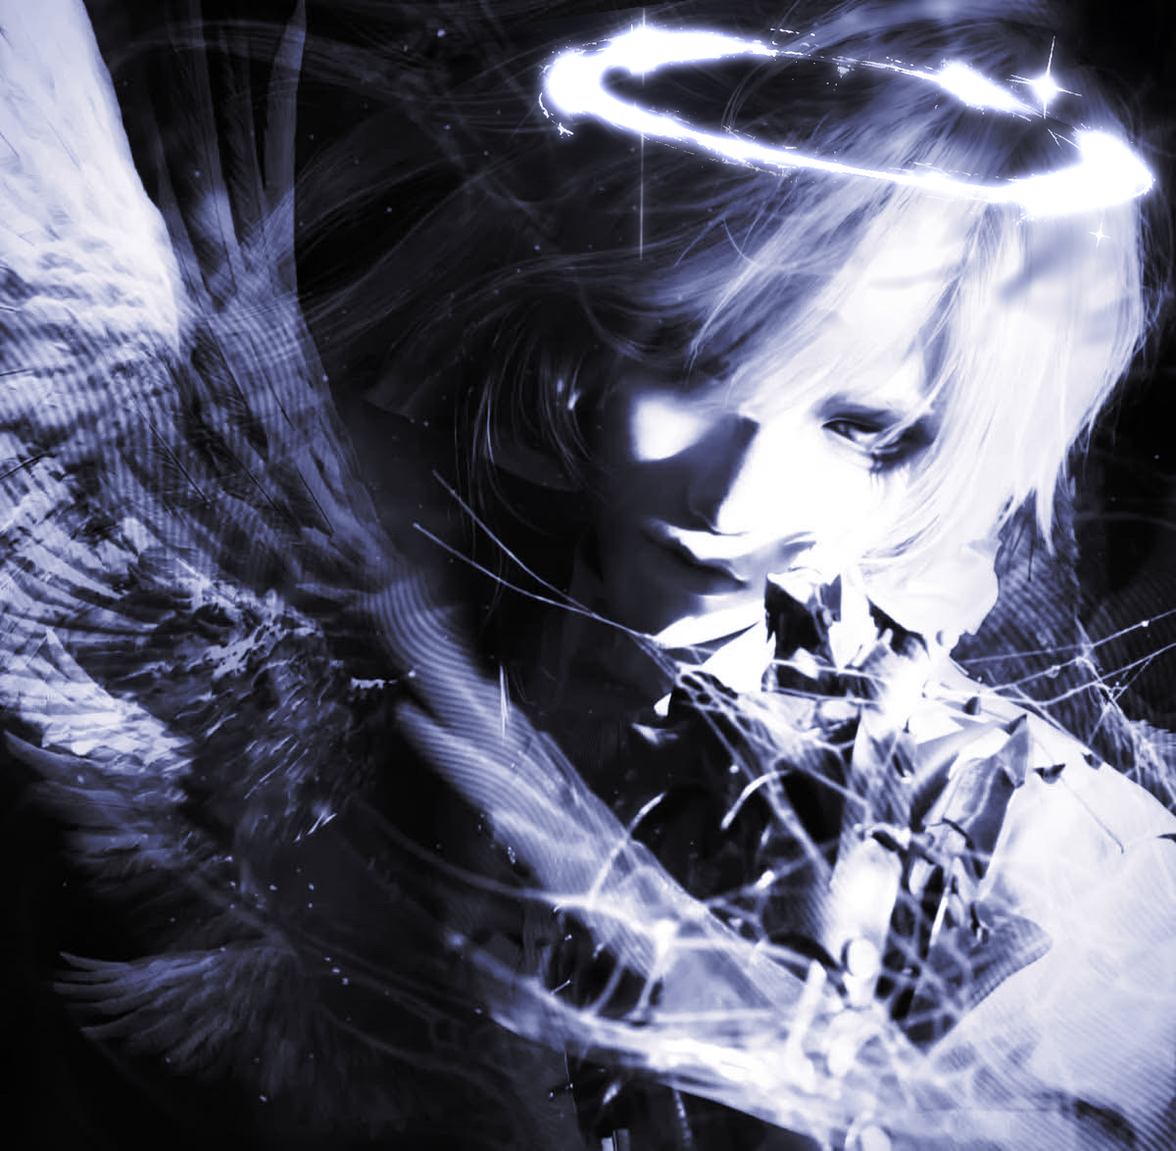
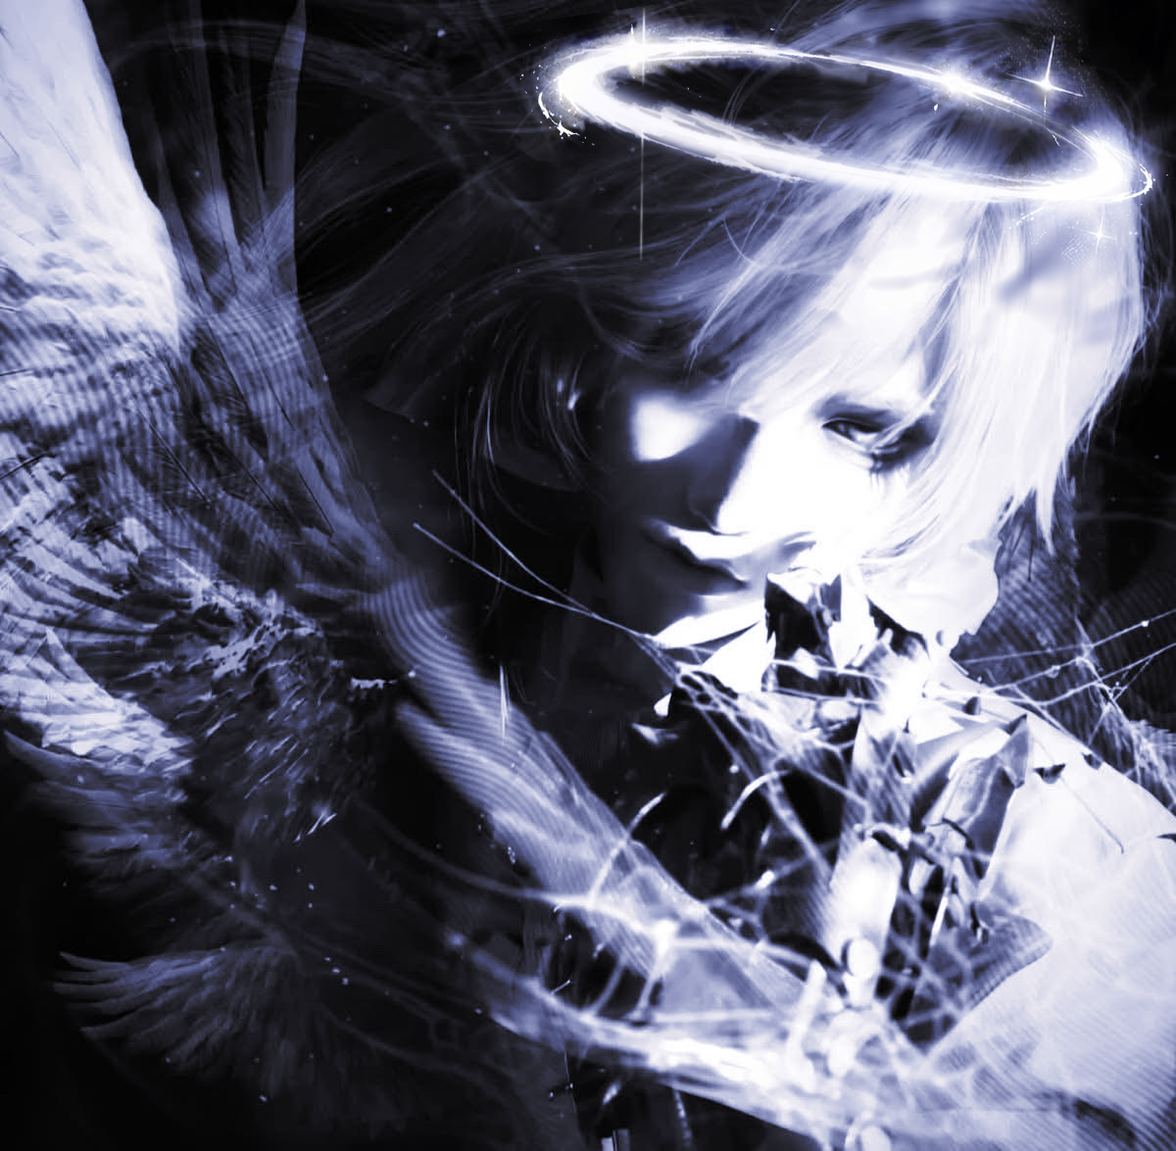
Lift the halo exactly for the wings picture
The user said the halo on the wings picture did not match theirs. The
earlier extraction thresholded and modelled the light, which lost the
thin strands, the sparkle dust and the outer arc, and let lace and lily
pieces through.

- Over dark background the edit's light is now kept exactly as measured
  (median error against the edit: 0).
- Over bright lace and hair, where light and background cannot be told
  apart per pixel, the ring is read in ring coordinates (arc length x
  distance): a directional opening/closing keeps the long lines that run
  along the ring and drops short blobs of background. Off the band the
  light may not exceed the glow measured where it is exact and must fade
  with distance, which stops lily and lace edges leaking in.
- Kept from measurements: the back arc over the lace top (carried along
  the ring), the thin outer arc round the right end (38-46 px out), the
  folds inside the two tight ends, both stars with their own glow, the
  flare, and sparkle dust; light colour follows a per-level colour map
  measured on the halo, so faint glow is lavender and strong light white.

Claude-Session: https://claude.ai/code/session_01R1ufdM6Gy46JF29dPHPPpt

Changed region(s): [[0.4317, 0.0, 0.9867, 0.2145], [0.5242, 0.1838, 0.555, 0.2145]]

diff --git a/halo/wings_halo.py b/halo/wings_halo.py
@@ -5,24 +5,30 @@
    brightness level it takes the edit's median colour, and the picture keeps
    its own brightness exactly: only the hue changes (navy blacks, periwinkle
    mids, lavender-white highlights).
-2. Halo: lifted off edit.jpg as two layers, light (screened on) and the
-   shadow the edit put behind the ring (multiplied on, before the colouring).
-   - Under the ring the edit's background is source.jpg aligned to it, scaled
-     by that shadow. The shadow is measured as edit / original away from the
-     light, separately inside and outside the ring.
-   - Ring and strands: the light above that background, kept where it is light
-     the original does not have, or the band's white-hot core.
-   - Stars and glitter: the detail mask of enlarge_halo.halo_layers, keeping
-     only parts that peak like real sparkles (lace and lily bits peak lower).
-   - The tall flare at the right end: a horizontal top-hat along its line.
-   - Glow: sum of blurs of all of the above, fitted where the edit's
-     background was dark (there it is measured exactly).
+2. Halo: lifted off edit.jpg as light (screened on) and the shadow the edit put
+   behind the ring (multiplied on, before the colouring).
+   - Background under the ring: source.jpg aligned to the edit, times that
+     shadow (edit / original away from the light, inside and outside the ring).
+   - Light: what screens that background into the edit, per pixel. It is exact
+     where the background was dark; there it is kept as it is (the median error
+     against the edit is 0).
+   - Over the bright lace and hair it is not exact. There the ring is read in
+     ring coordinates (arc length along it, distance across it), where the
+     halo's light runs in long lines and leaking background is short blobs: a
+     directional opening and closing keeps the lines. Off the band, the light
+     may not exceed the glow measured where it is exact and must fade with
+     distance, which stops lily and lace edges coming through.
+   - Kept by hand from measurements: the back arc over the lace top (carried
+     along the ring from both sides), the thin outer arc round the right end,
+     the folds inside the two tight ends (raw light), the two stars (exact
+     light with their glow), the vertical flare (top-hat along its line), and
+     sparkle dust (bright specks the line filter takes out).
 3. The halo is mirrored (this head leans the other way), turned to a 10 degree
    tilt (parallel to the eye and brow line) and placed over the head. The two
    stars and the flare stay upright and ride along with their point on the
    ring. Pixels away from the halo keep the plain recolour.
 
-    python3 wings_halo.py wings.jpg edit.jpg source.jpg out.png [--cx X --cy Y --scale S]
+    python3 wings_halo.py wings.jpg edit.jpg source.jpg out.png [--cx X --cy Y --scale S --rotate R]
 """
 
 import argparse
@@ -30,10 +36,11 @@ import math
 
 import numpy as np
 from PIL import Image
-from scipy import ndimage, optimize
+from scipy import ndimage
 
 import enlarge_halo as eh
 import zoom_out as zo
+from add_halo import ellipse_point
 
 LW = np.array([0.2126, 0.7152, 0.0722])
 
@@ -50,12 +57,16 @@ MIRROR = True
 # the ring turns, and ride along with their point on the ring
 STARS = ((184.0, 134.0), (153.0, 296.0))
 
-# the top of the lace headpiece, lit by the halo in the edit: background, not halo
-# (cx, cy, rx, ry in edit pixels); only the ring's core line is kept through it
-LACE_TOP = (383.0, 72.0, 32.0, 30.0)
+# the back arc crosses the top of the lace headpiece (ring angles in degrees). Its
+# lace, lit by the halo, is as bright as the ring's own lines there, so across that
+# stretch the back arc's lines are carried over from both ends of it, along the ring
+LACE_T = (-101.0, -74.0)
+LINE_SLOPES = (0.0, 0.05, -0.05, 0.1, -0.1, 0.18, -0.18, 0.3, -0.3)
+# the thin outer arc around the ring's right end: ring angles and distance (px)
+OUTER_ARC_T = (2.0, 32.0)
+OUTER_ARC_D = (34.0, 52.0)
 FLARE_X = (585, 612)      # columns that hold the edit's vertical flare
 FLARE_ROWS = (0, 300)
-GLOW_SIGMAS = (2.5, 7.0, 18.0, 45.0)
 
 
 def ss(e0, e1, x):
@@ -84,10 +95,57 @@ def apply_map(lut, luma):
     return np.stack([np.interp(x, np.arange(256), lut[:, c]) for c in range(3)], -1)
 
 
+def line_footprints(length, slopes):
+    """Flat line structuring elements of the given length at the given slopes."""
+    fps = []
+    for m in slopes:
+        h = int(math.ceil(abs(m) * length / 2))
+        fp = np.zeros((2 * h + 1, length), bool)
+        for j in range(length):
+            fp[h + int(round(m * (j - length // 2))), j] = True
+        fps.append(fp)
+    return fps
+
+
+class RingCoords:
+    """Arc length s along the ring's centre line and distance d across it."""
+
+    def __init__(self, ring, dmin=-60, dmax=100):
+        cx, cy, a, b, tilt = ring
+        self.args = (cx, cy, a, b, math.radians(tilt))
+        self.tt = np.linspace(-math.pi, math.pi, 40001)
+        px, py, _, _ = ellipse_point(*self.args, self.tt)
+        self.sgrid = np.r_[0.0, np.cumsum(np.hypot(np.diff(px), np.diff(py)))]
+        self.perim = self.sgrid[-1]
+        self.ns = int(round(self.perim))
+        self.t_u = np.interp(np.arange(self.ns) * self.perim / self.ns, self.sgrid, self.tt)
+        self.dmin, self.dmax = dmin, dmax
+        self.d_u = np.arange(dmin, dmax + 1.0)
+        px, py, nx, ny = ellipse_point(*self.args, self.t_u)
+        self.X = px[None] + self.d_u[:, None] * nx[None]
+        self.Y = py[None] + self.d_u[:, None] * ny[None]
+
+    def unroll(self, img):
+        return ndimage.map_coordinates(img, [self.Y, self.X], order=1, mode="nearest")
+
+    def reroll(self, U, d, t, pad=8):
+        """Read an unrolled array back at image pixels with ring coordinates (d, t)."""
+        col = np.interp(t, self.tt, self.sgrid) * self.ns / self.perim + pad
+        row = np.clip(d - self.dmin, 0, U.shape[0] - 1)
+        out = ndimage.map_coordinates(np.pad(U, ((0, 0), (pad, pad)), mode="wrap"), [row, col],
+                                      order=1, mode="nearest")
+        return out * ((d >= self.dmin) & (d <= self.dmax))
+
+    def s_of_t(self, t_deg):
+        return float(np.interp(math.radians(t_deg), self.tt, self.sgrid) * self.ns / self.perim)
+
+
 def halo_light(R, S):
-    """Light (RGB) and shadow (luma factor) of the edit's halo, in edit coordinates."""
+    """The edit's halo in edit coordinates: its whole light (RGB), the same light
+    split into the ring and the upright parts (stars, flare) for when the ring is
+    turned, and the shadow behind the ring (luma factor)."""
     hl = eh.halo_layers(R, S, np.random.default_rng(5))
-    d, det, e_det, B_s = hl["d_old"], hl["det"], hl["e_det"], hl["B_s"]
+    d, t, det, e_det, B_s = hl["d_old"], hl["t_old"], hl["det"], hl["e_det"], hl["B_s"]
     quiet = ~ndimage.binary_dilation(det, np.ones((15, 15)))
 
     # shadow: edit / original away from the light, filled in separately on each side
@@ -98,27 +156,137 @@ def halo_light(R, S):
         Dm[d >= 160] = 1.0
         D[side] = eh.gauss(zo.push_pull_fill(Dm, known), 5.0)[side]
     bg = np.clip(D * B_s, 0.0, 1.0)
+
+    # the light, pixel by pixel: what screens that background into the edit. It is
+    # exact where the background was dark (w = 1); over bright lace and hair it is not
     E = np.clip(1.0 - (1.0 - R) / np.maximum(1.0 - bg, 1e-3), 0.0, 1.0)
-    El, bgl, Rl = E @ LW, bg @ LW, R @ LW
+    El = E @ LW
+    w = ss(0.62, 0.42, eh.gauss(bg @ LW, 3.0))
 
-    # ring and strands
-    band = np.where(d < 0, ss(-30.0, -20.0, d), ss(36.0, 24.0, d))
-    tau = 0.30 + 0.45 * ss(0.50, 0.85, bgl)
-    added = Rl - ndimage.maximum_filter(B_s @ LW, size=5)      # light the original lacks
-    core = ss(0.85, 0.95, El) * ss(14.0, 8.0, np.abs(d))
-    keep = np.maximum(ss(0.04, 0.15, added), core)
-    yy, xx = np.mgrid[0:R.shape[0], 0:R.shape[1]].astype(np.float64)
-    lx, ly, lrx, lry = LACE_TOP
-    lace = ss(1.0, 0.75, np.hypot((xx - lx) / lrx, (yy - ly) / lry)) * ss(7.0, 10.0, np.abs(d))
-    C = E * (ss(tau, tau + 0.25, El) * band * keep * (1.0 - lace))[..., None]
+    # in ring coordinates the halo's light runs in long lines along the ring, while
+    # background texture leaking in is short blobs: keep what a long line fits in,
+    # then close short dark holes. Raw light is kept up to that, so lines stay crisp
+    rc = RingCoords(eh.RING)
+    Elu = rc.unroll(El)
+    pad = 40
+    P = np.pad(Elu, ((0, 0), (pad, pad)), mode="wrap")
+    op = np.max([ndimage.grey_opening(P, footprint=f, mode="nearest") for f in line_footprints(31, LINE_SLOPES)], 0)
+    oc = np.min([ndimage.grey_closing(op, footprint=f, mode="nearest") for f in line_footprints(21, LINE_SLOPES)], 0)
+    Lf = oc[:, pad:-pad]
+    def keep_lines(raw, filt):
+        dil = ndimage.grey_dilation(filt, size=(3, 3))
+        return np.minimum(raw, dil + 0.04 * ss(0.05, 0.2, dil))
+    lines_u = keep_lines(Elu, Lf)
+    # the back arc over the lace top: its lace is as bright as the ring's own lines,
+    # so that stretch is carried over from both ends of it, along the ring
+    s0, s1 = rc.s_of_t(LACE_T[0] - 3.0), rc.s_of_t(LACE_T[1] + 3.0)
+    i0, i1 = int(math.floor(s0)), int(math.ceil(s1))
+    lam = np.clip((np.arange(rc.ns) - i0) / (i1 - i0), 0.0, 1.0)
+    carried = lines_u.copy()
+    carried[:, i0:i1 + 1] = (1.0 - lam[i0:i1 + 1]) * lines_u[:, i0:i0 + 1] + lam[i0:i1 + 1] * lines_u[:, i1:i1 + 1]
+    lines = keep_lines(El, rc.reroll(Lf, d, t))
+    tdeg = np.degrees(t)
+    lace = ss(LACE_T[0] - 3.0, LACE_T[0], tdeg) * ss(LACE_T[1] + 3.0, LACE_T[1], tdeg) * ss(70.0, 55.0, np.abs(d))
+    lines = (1.0 - lace) * lines + lace * rc.reroll(carried, d, t)
 
-    # stars and glitter: bright cores of components that peak like sparkles
-    Dc = e_det * ss(0.30, 0.55, e_det @ LW)[..., None]
-    lab, n = ndimage.label(ndimage.binary_dilation((Dc @ LW) > 0.02, np.ones((3, 3))))
+    # where the light is unknown, the ring's glow off the band stays within what it
+    # is where it is exact (30th to 90th percentile at that distance): this keeps
+    # the outer glow over bright background and stops hair strands leaking in
+    rel = (w > 0.9) & ~ndimage.binary_dilation(det, np.ones((9, 9))) & (lace < 0.01)
+    grid = np.arange(-60.0, 102.0, 2.0)
+    E_low = eh.gauss(E, 2.5)
+
+    def profile(q_):
+        v = np.array([np.percentile((E_low @ LW)[rel & (np.abs(d - g_) < 1.5)], q_)
+                      if (rel & (np.abs(d - g_) < 1.5)).sum() > 50 else 0.0 for g_ in grid])
+        return np.interp(d, grid, ndimage.gaussian_filter1d(v, 1.0))
+    Lr = rc.reroll(Lf, d, t)
+    # near the two ends the ring curves so tightly (radius about 10 px) that ring
+    # coordinates fold over inside it: there the light is kept as measured
+    cx_, cy_, a_, b_, _ = eh.RING
+    rho = (a_ ** 2 * np.sin(t) ** 2 + b_ ** 2 * np.cos(t) ** 2) ** 1.5 / (a_ * b_)
+    fold = ss(-0.5 * rho, -0.9 * rho, d) * ss(-45.0, -35.0, d)
+    lines = fold * El + (1.0 - fold) * lines
+    # faint glow is smooth light: the print dots of the edit's background showing
+    # through it are not part of the halo
+    lines = (1.0 - ss(0.25, 0.5, Lr)) * eh.gauss(np.minimum(lines, Lr + 0.02), 1.2) + ss(0.25, 0.5, Lr) * lines
+    # where the light is unknown, keep only the bright line-like strands and lay
+    # them over the ring's usual glow at that distance (its median where exact)
+    strands = Lr * ss(-34.0, -24.0, d) * ss(40.0, 30.0, d)
+    usual = profile(50) * ss(-60.0, -45.0, d) * ss(80.0, 60.0, d)
+    usual = usual * (1.0 - lace) + lace * lines
+    unknown = 1.0 - w
+    lines = w * lines + unknown * np.maximum(strands, usual)
+    # off the band the halo is only glow: nothing there may be brighter than the
+    # brightest glow measured at that distance (lily and lace edges are long and
+    # straight like the strands, so the line filter alone lets them through)
+    off_band = np.maximum(ss(-30.0, -40.0, d), ss(34.0, 44.0, d))
+    cap = profile(95) + 0.05
+    lines = lines - off_band * np.maximum(lines - cap, 0.0)
+    # and a glow only fades with distance: along every line across the ring, light
+    # off the band can not rise again further out (that is background showing through)
+    Lu = rc.unroll(lines)
+    rows = rc.d_u
+    out_i, in_i = np.searchsorted(rows, 34.0), np.searchsorted(rows, -30.0)
+    env = Lu.copy()
+    env[out_i:] = np.minimum.accumulate(Lu[out_i:], axis=0)
+    env[:in_i + 1] = np.minimum.accumulate(Lu[:in_i + 1][::-1], axis=0)[::-1]
+    env = ndimage.uniform_filter1d(ndimage.maximum_filter1d(env, 5, axis=1), 5, axis=1)
+    lines = np.minimum(lines, rc.reroll(env, d, t) + 0.01 + (1.0 - off_band))
+    # the thin outer arc around the right end is the halo's own (bright, crisp)
+    arc = (ss(OUTER_ARC_T[0] - 3.0, OUTER_ARC_T[0], tdeg) * ss(OUTER_ARC_T[1] + 3.0, OUTER_ARC_T[1], tdeg)
+           * ss(OUTER_ARC_D[0] - 4.0, OUTER_ARC_D[0], d) * ss(OUTER_ARC_D[1] + 4.0, OUTER_ARC_D[1], d))
+    lines = np.maximum(lines, arc * El * ss(0.38, 0.62, El))
+
+    # colour: exact where the light is exact; elsewhere the halo's colour at that
+    # brightness (lavender when faint, white when strong), measured where it is exact
+    sel = rel & (El > 0.03) & (np.abs(d) < 60)
+    lev = np.clip((El[sel] * 64).astype(int), 0, 63)
+    cm = np.full((64, 3), np.nan)
+    for i in range(64):
+        m = lev == i
+        if m.sum() > 40:
+            cm[i] = np.median(E[sel][m] / np.maximum(El[sel][m, None], 1e-3), 0)
+    ok = ~np.isnan(cm[:, 0])
+    cm = np.stack([np.interp(np.arange(64), np.arange(64)[ok], cm[ok, c]) for c in range(3)], 1)
+    cm = ndimage.gaussian_filter1d(cm, 1.5, axis=0)
+    cm /= (cm @ LW)[:, None]
+
+    def colour(lv):
+        return np.clip(lv[..., None] * cm[np.clip((lv * 63).astype(int), 0, 63)], 0.0, 1.0)
+
+    exact = w[..., None] * (1.0 - lace[..., None])
+    kept = E * np.minimum(lines / np.maximum(El, 1e-4), 1.0)[..., None]
+    rgb_exact = eh.screen(kept, colour(np.maximum(lines - El, 0.0)))
+    rgb = exact * rgb_exact + (1.0 - exact) * colour(lines)
+
+    # sparkle dust: small bright specks the line filter took out, where the light is
+    # exact (print dots of the background are fainter and are left out)
+    dust_l = np.maximum(El - lines, 0.0)
+    dust = E * (ss(0.40, 0.60, dust_l) * ss(0.5, 0.8, w) * ss(60.0, 45.0, np.abs(d)) * (1.0 - lace))[..., None]
+    rgb = eh.screen(rgb, dust)
+
+    # stars and glitter: components that peak like sparkles (lace and lily bits peak lower)
+    Dk = ss(0.30, 0.55, e_det @ LW)
+    lab, n = ndimage.label(ndimage.binary_dilation(Dk > 0.02, np.ones((3, 3))))
     peak = ndimage.maximum(e_det @ LW, lab, np.arange(1, n + 1))
-    Dc *= np.concatenate([[False], peak >= 0.85])[lab][..., None] * (1.0 - lace)[..., None]
+    Dk = Dk * np.concatenate([[False], peak >= 0.85])[lab] * (1.0 - lace)
+    glitter = E * Dk[..., None]
+
+    # the two stars keep their light exactly as it is, glow included
+    lab, _ = ndimage.label(Dk > 0.02, np.ones((3, 3)))
+    star_zones = []
+    for sx_, sy_ in STARS:
+        near = lab[int(sy_) - 12:int(sy_) + 13, int(sx_) - 12:int(sx_) + 13]
+        m = np.isin(lab, np.unique(near[near > 0]))
+        zone = eh.gauss(ndimage.binary_dilation(m, iterations=35).astype(np.float64), 4.0)
+        star_zones.append(zone * ss(18.0, 28.0, d))                  # outside the band only
+        glitter = glitter * (1.0 - m)[..., None]
+    stars = [np.clip(E * z[..., None], 0.0, 1.0) for z in star_zones]
+    star_mask = np.max(star_zones, 0)
 
     # vertical flare: brightness above its neighbours on both sides, along its line
+    Rl = R @ LW
     x0, x1 = FLARE_X
     r0, r1 = FLARE_ROWS
     strip = Rl[r0:r1, x0 - 10:x1 + 10]
@@ -134,45 +302,25 @@ def halo_light(R, S):
     xc = np.polyval(fit, rows)
     on = np.clip(np.round(xc).astype(int) - x0, 1, x1 - x0 - 2)
     line = np.max([th[np.arange(len(rows)), on + k] for k in (-1, 0, 1)], 0)
-    # strength along it: a smooth envelope (the texture under it makes it flicker)
-    line = ndimage.gaussian_filter1d(ndimage.maximum_filter1d(line, 9), 6.0)
+    line = ndimage.gaussian_filter1d(ndimage.maximum_filter1d(line, 9), 6.0)   # smooth envelope
     line *= ss(0.08, 0.16, line)
     F = np.zeros(R.shape[:2])
     xs = np.arange(x0 - 10, x1 + 10)
     F[r0:r1, x0 - 10:x1 + 10] = line[:, None] * np.exp(-0.5 * ((xs[None, :] - xc[:, None]) / 0.9) ** 2)
+    near_white = 0.6 + 0.4 * cm[40]                                  # the flare is nearly white
+    flare = np.clip(F[..., None] * near_white / (near_white @ LW), 0.0, 1.0)
 
-    # glow, fitted where the edit's background was dark
-    src = np.clip(eh.screen(C, Dc) @ LW, 0.0, 1.0)
-    src = 1.0 - (1.0 - src) * (1.0 - F)
-    blurs = [eh.gauss(src, s) for s in GLOW_SIGMAS]
-    sel = (bgl < 0.40) & (src < 0.05) & ~ndimage.binary_dilation(det, np.ones((9, 9))) & (d > -50) & (d < 140)
-    sel &= np.random.default_rng(0).random(sel.shape) < 0.25
-    alpha, _ = optimize.nnls(np.stack([bl[sel] for bl in blurs], 1), El[sel])
-    glow_l = sum(a_ * bl for a_, bl in zip(alpha, blurs))
-    gsel = sel & (glow_l > 0.08) & (El > 0.05)
-    tint = (E[gsel] / np.maximum(El[gsel], 1e-3)[:, None]).mean(0)
-    tint /= tint @ LW
+    ring = np.clip(eh.screen(rgb * (1.0 - star_mask)[..., None], glitter), 0.0, 1.0)
+    light = ring
+    for st in stars:
+        light = eh.screen(light, st)
+    light = np.clip(eh.screen(light, flare), 0.0, 1.0)
 
-    def with_glow(light):
-        g = sum(a_ * eh.gauss(light @ LW, s_) for a_, s_ in zip(alpha, GLOW_SIGMAS))
-        return np.clip(eh.screen(light, np.clip(g[..., None] * tint, 0.0, 1.0)), 0.0, 1.0)
-
-    # split off the upright parts: each star component, and the flare
-    lab, _ = ndimage.label((Dc @ LW) > 0.02, np.ones((3, 3)))
-    stars = []
-    for sx_, sy_ in STARS:
-        near = lab[int(sy_) - 12:int(sy_) + 13, int(sx_) - 12:int(sx_) + 13]
-        ids = np.unique(near[near > 0])
-        m = np.isin(lab, ids)
-        stars.append((with_glow(Dc * m[..., None]), (sx_, sy_)))
-        Dc = Dc * ~m[..., None]
     fr = np.arange(0, 150)                                           # flare meets the back arc
     fy = fr[np.argmin(np.abs(d[fr, np.clip(np.round(np.polyval(fit, fr)).astype(int), 0, R.shape[1] - 1)]))]
-    white_blue = 0.6 + 0.4 * tint                                    # flare: nearly white
-    flare = (with_glow(F[..., None] * white_blue / (white_blue @ LW)), (float(np.polyval(fit, fy)), float(fy)))
-    ring = with_glow(eh.screen(C, Dc))
+    parts = [(st, xy) for st, xy in zip(stars, STARS)] + [(flare, (float(np.polyval(fit, fy)), float(fy)))]
     shadow = np.clip(D @ LW, 0.0, 1.0)
-    return ring, stars + [flare], shadow, hl, dict(alpha=alpha, tint=tint, flare=fit)
+    return light, ring, parts, shadow, hl, dict(colour_map=cm, flare=fit)
 
 
 def forward(q, src_pt, dst_pt, scale, rotate, mirror):
@@ -218,8 +366,7 @@ def main():
     R = np.asarray(Image.open(args.edit).convert("RGB")).astype(np.float64) / 255.0
     S = np.asarray(Image.open(args.source).convert("RGB")).astype(np.float64) / 255.0
 
-    ring, upright, shadow, hl, info = halo_light(R, S)
-    print("glow alphas", np.round(info["alpha"], 3), "tint", np.round(info["tint"], 3))
+    light, ring, upright, shadow, hl, info = halo_light(R, S)
 
     away = (hl["d_old"] > 160) & ~ndimage.binary_dilation(hl["det"], np.ones((15, 15)))
     away[:, -eh.FRINGE_COLS:] = False                                # green fringe
@@ -228,11 +375,14 @@ def main():
     luma = P @ LW
     plain = apply_map(lut, luma)
     geo = (eh.RING[:2], (args.cx, args.cy), args.scale, args.rotate, args.mirror)
-    L_t = place(ring, 0.0, luma.shape, *geo)
     D_t = place(shadow, 1.0, luma.shape, *geo)
-    for part, anchor in upright:                                     # stars and flare stay upright
-        L_t = eh.screen(L_t, place(part, 0.0, luma.shape, anchor, forward(anchor, *geo),
-                                   args.scale, 0.0, args.mirror))
+    if args.rotate == 0.0:                                           # the halo exactly as it is
+        L_t = place(light, 0.0, luma.shape, *geo)
+    else:                                                            # stars and flare stay upright
+        L_t = place(ring, 0.0, luma.shape, *geo)
+        for part, anchor in upright:
+            L_t = eh.screen(L_t, place(part, 0.0, luma.shape, anchor, forward(anchor, *geo),
+                                       args.scale, 0.0, args.mirror))
     amt = eh.RESHARPEN * min(max(args.scale - 1.0, 0.0) / 0.3, 1.0)  # enlarging softens
     if amt > 0:
         L_t = L_t + amt * (L_t - eh.gauss(L_t, 1.0))
@@ -252,7 +402,7 @@ def main():
     print(f"saved {args.output} ({out.shape[1]}x{out.shape[0]}), halo touches {(~untouched).mean():.1%}")
     if args.debug:
         sv = lambda n, im: Image.fromarray((np.clip(im, 0, 1) * 255 + 0.5).astype(np.uint8)).save(f"{args.debug}/{n}.png")
-        sv("light_edit", eh.screen(ring, np.max([p for p, _ in upright], 0)))
+        sv("light_edit", light)
         sv("shadow_edit", shadow)
         sv("plain", plain)
         sv("light_placed", L_t)

diff --git a/halo/README.md b/halo/README.md
@@ -28,7 +28,10 @@
 صورة `wings.jpg` (أبيض وأسود) صارت بألوان صورتك، وعليها نفس الحلقة (`wings_halo.py`):
 
 - **الألوان**: أخذت من صورتك لون كل درجة سطوع (الأسود كحلي، الوسط بنفسجي مزرق، الأبيض لافندر). طبّقته على السطوع حق الصورة نفسها، فالإضاءة والظل باقيين زي ما هم ويتغيّر اللون بس.
-- **الحلقة**: نفس حلقتك، مفصولة من صورتك كطبقة نور: الحلقة بخيوطها واللمعات والنجوم والخط العمودي والتوهج، وكمان الظل الغامق اللي داخلها.
+- **الحلقة**: نفس حلقتك، مفصولة من صورتك كطبقة نور مع الظل الغامق اللي داخلها.
+  - في الأماكن اللي حلقتك فيها فوق خلفية غامقة، أخذت النور زي ما هو بالضبط (قسته على صورتك وطلع الفرق صفر).
+  - في الأماكن اللي فوق الدانتيل والشعر الفاتح، ما ينفصل النور عن الخلفية بكسل بكسل. فرديت الحلقة كشريط مستقيم وأخذت منها الخطوط الطويلة اللي ماشية مع الحلقة (هذي خطوط الحلقة)، وشلت البقع القصيرة (هذي من الخلفية).
+  - رجعت النجمتين والخط العمودي والقوس الرفيع اللي حول طرف الحلقة واللمعات الصغيرة، كل واحد من مكانه في حلقتك.
 - **الزاوية**: الحلقة معكوسة لأن الراس هنا مايل للجهة الثانية، وميلانها 10°، موازية لخط العين والحاجب (قسته 6–8°) مع ميلة خفيفة زيادة تمشي مع اتجاه الشعر. النجوم والخط العمودي باقين معتدلين.
 - كل اللي بعيد عن الحلقة هو نفس الصورة بالألوان الجديدة بالضبط.
 
